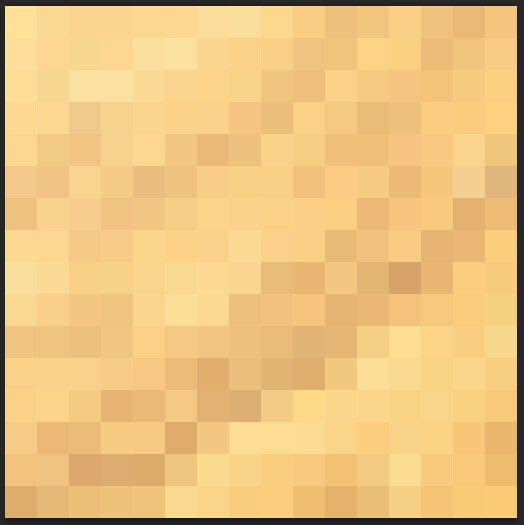
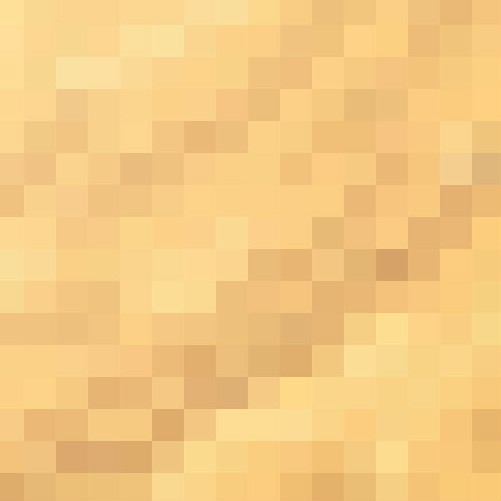
sand + initial water

diff --git a/src/map.cpp b/src/map.cpp
@@ -4,102 +4,153 @@
 #include <iostream>
 
 Map::Map(int height, int width, sf::RenderWindow& window, const std::string& obstacleTextureFile, const std::string& holeTextureFile)
-  : grid(height, std::vector<int>(width, EMPTY)), window(window) {
+    : grid(height, std::vector<int>(width, EMPTY)), window(window), currentWaterFrame(0), animationTimer(0.0f), animationSpeed(0.0001f) {
 
-  if (!obstacleTexture.loadFromFile(obstacleTextureFile)) {
-    std::cerr << "Error loading obstacle texture";
-  }
-  
-  obstacle.setTexture(obstacleTexture);
-  this->cellSize = window.getSize().x / width;
-  float scaleFactor = static_cast<float> (cellSize) / obstacleTexture.getSize().x; 
-  obstacle.setScale(scaleFactor, scaleFactor);
-  obstacle.setOrigin(cellSize, cellSize);
+    // Load obstacle texture
+    if (!obstacleTexture.loadFromFile(obstacleTextureFile)) {
+        std::cerr << "Error loading obstacle texture from " << obstacleTextureFile << std::endl;
+    } else {
+        obstacle.setTexture(obstacleTexture);
+        this->cellSize = window.getSize().x / width;
+        float scaleFactor = static_cast<float>(cellSize) / obstacleTexture.getSize().x;
+        obstacle.setScale(scaleFactor, scaleFactor);
+        obstacle.setOrigin(cellSize / 2, cellSize / 2);
+    }
 
-  if (!holeTexture.loadFromFile(holeTextureFile)) {
-    std::cerr << "Error loading hole texture";
-  }
-  hole.setTexture(holeTexture);
-  float holeScaleFactor = static_cast<float>(cellSize) / holeTexture.getSize().x; 
-  hole.setScale(holeScaleFactor / 2, holeScaleFactor / 2);
-  //hole.setOrigin(cellSize / 2, cellSize / 2);
+    // Load sand texture
+    if (!sandTexture.loadFromFile("assets/sand.jpg")) {
+        std::cerr << "Error loading sand texture from assets/sand.jpg" << std::endl;
+    } else {
+        sand.setTexture(sandTexture);
+        float sandScale = static_cast<float>(cellSize) / sandTexture.getSize().x;
+        sand.setScale(sandScale, sandScale);
+        sand.setOrigin(cellSize / 2, cellSize / 2);
+    }
 
-  if (!flagTexture.loadFromFile("assets/flag.png")) {
-    std::cerr << "Error loading flag texture";
-  }
+    // Load hole texture
+    if (!holeTexture.loadFromFile(holeTextureFile)) {
+        std::cerr << "Error loading hole texture from " << holeTextureFile << std::endl;
+    } else {
+        hole.setTexture(holeTexture);
+        float holeScaleFactor = static_cast<float>(cellSize) / holeTexture.getSize().x;
+        hole.setScale(holeScaleFactor / 2, holeScaleFactor / 2);
+        hole.setOrigin(cellSize / 2, cellSize / 2);
+    }
 
-  flag.setTexture(flagTexture);
-  float flagScaleFactor = 0.2f;
-  flag.setScale(flagScaleFactor, flagScaleFactor);
+    // Load flag texture
+    if (!flagTexture.loadFromFile("assets/flag.png")) {
+        std::cerr << "Error loading flag texture from assets/flag.png" << std::endl;
+    } else {
+        flag.setTexture(flagTexture);
+        float flagScaleFactor = 0.2f;
+        flag.setScale(flagScaleFactor, flagScaleFactor);
+    }
+
+    // Load water shader
+    if (!waterShader.loadFromFile("assets/water.frag", sf::Shader::Fragment)) {
+        std::cerr << "Error loading water shader from assets/water.frag" << std::endl;
+    } else {
+        std::cout << "Water shader loaded successfully" << std::endl;
+    }
+
+    // Load a base texture for water (e.g., a plain blue texture)
+    if (!waterTexture.loadFromFile("assets/water_base.png")) {
+        std::cerr << "Error loading water base texture from assets/water_base.jpg" << std::endl;
+    } else {
+        waterSprite.setTexture(waterTexture);
+        waterSprite.setScale(static_cast<float>(cellSize) / waterTexture.getSize().x, static_cast<float>(cellSize) / waterTexture.getSize().y);
+        waterSprite.setOrigin(cellSize / 2, cellSize / 2);
+    }
 }
 
 void Map::loadMap(const std::vector<std::vector<int>>& mapData) {
-  grid = mapData;
+    grid = mapData;
 }
 
 void Map::loadMapFromFile(const std::string& filePath) {
-  std::ifstream file(filePath);
-  if (!file.is_open()) {
-      throw std::runtime_error("Failed to open level file");
-  }
-
-  std::string line;
-  grid.clear();
-
-  while (std::getline(file, line)) {
-    std::vector<int> row;
-    for (char& ch : line) {
-        if (ch == '0' || ch == '1' || ch == '3') { 
-            row.push_back(ch - '0'); 
-        }
+    std::ifstream file(filePath);
+    if (!file.is_open()) {
+        throw std::runtime_error("Failed to open level file " + filePath);
     }
-    grid.push_back(row);
-  }
-  file.close();
+
+    std::string line;
+    grid.clear();
+
+    while (std::getline(file, line)) {
+        std::vector<int> row;
+        for (char& ch : line) {
+            if (ch == '0' || ch == '1' || ch == '2' || ch == '3' || ch == '4') {
+                row.push_back(ch - '0');
+            }
+        }
+        grid.push_back(row);
+    }
+    file.close();
 }
 
 void Map::draw() {
-  for (size_t y = 0; y < grid.size(); ++y) {
-    for (size_t x = 0; x < grid[y].size(); ++x) {
-      if (grid[y][x] == OBSTACLE) {
-        obstacle.setPosition(x * cellSize, y * cellSize);
-        window.draw(obstacle);
-      } else if (grid[y][x] == HOLE) {
-        hole.setPosition(x * cellSize, y * cellSize);
-        flag.setPosition(x * cellSize + 10, y * cellSize - 40);
-        window.draw(hole);
-        window.draw(flag);
-      }
+    animationTimer += animationSpeed;
+    float time = static_cast<float>(animationTimer);
+
+    for (size_t y = 0; y < grid.size(); ++y) {
+        for (size_t x = 0; x < grid[y].size(); ++x) {
+            if (grid[y][x] == OBSTACLE) {
+                obstacle.setPosition(x * cellSize, y * cellSize);
+                window.draw(obstacle);
+            } else if (grid[y][x] == SAND) {
+                sand.setPosition(x * cellSize, y * cellSize);
+                window.draw(sand);
+            } else if (grid[y][x] == HOLE) {
+                hole.setPosition(x * cellSize, y * cellSize);
+                flag.setPosition(x * cellSize + 10, y * cellSize - 40);
+                window.draw(hole);
+                window.draw(flag);
+            } else if (grid[y][x] == WATER) {
+                waterShader.setUniform("time", time);
+                waterShader.setUniform("resolution", sf::Vector2f(window.getSize()));
+                waterShader.setUniform("texture", sf::Shader::CurrentTexture);
+                waterSprite.setPosition(x * cellSize, y * cellSize);
+                window.draw(waterSprite, &waterShader);
+            }
+        }
     }
-  }
 }
 
 bool Map::isObstacle(int x, int y) {
-  int gridX = x / cellSize;
-  int gridY = y / cellSize;
-  if (gridX < 0 || gridX >= grid[0].size() || gridY < 0 || gridY >= grid.size()) {
-      return false;
-  }
-  return grid[gridY][gridX] == OBSTACLE;
+    int gridX = x / cellSize;
+    int gridY = y / cellSize;
+    if (gridX < 0 || gridX >= grid[0].size() || gridY < 0 || gridY >= grid.size()) {
+        return false;
+    }
+    return grid[gridY][gridX] == OBSTACLE;
+}
+
+bool Map::isSand(int x, int y) {
+    int gridX = x / cellSize;
+    int gridY = y / cellSize;
+    if (gridX < 0 || gridX >= grid[0].size() || gridY < 0 || gridY >= grid.size()) {
+        return false;
+    }
+    return grid[gridY][gridX] == SAND;
 }
 
 bool Map::isHole(int x, int y) {
-  sf::Vector2f pos = hole.getPosition();
-  if (pos.x > x - 20 && pos.x < x + 10 && pos.y > y - 20 && pos.y < y + 10) {
-    return true;
-  } else return false;
+    sf::Vector2f pos = hole.getPosition();
+    if (pos.x > x - 20 && pos.x < x + 10 && pos.y > y - 20 && pos.y < y + 10) {
+        return true;
+    }
+    return false;
 }
 
 sf::Vector2f Map::getHoleCenter() {
-  sf::Vector2f pos = hole.getPosition();
-  pos.x += holeTexture.getSize().x / 2;
-  pos.y += holeTexture.getSize().y / 2;
-  return pos;
+    sf::Vector2f pos = hole.getPosition();
+    pos.x += holeTexture.getSize().x / 2;
+    pos.y += holeTexture.getSize().y / 2;
+    return pos;
 }
 
-
 sf::Vector2i Map::getCellCoords(sf::Vector2f position) {
-  int x = static_cast<int>(position.x) / cellSize;
-  int y = static_cast<int>(position.y) / cellSize;
-  return sf::Vector2i(x, y);
+    int x = static_cast<int>(position.x) / cellSize;
+    int y = static_cast<int>(position.y) / cellSize;
+    return sf::Vector2i(x, y);
 }

diff --git a/headers/map.hpp b/headers/map.hpp
@@ -9,6 +9,7 @@ enum CellType {
   OBSTACLE,
   SAND,
   HOLE,
+  WATER,
 };
 
 class Map {
@@ -22,6 +23,17 @@ private:
   sf::Sprite hole;
   sf::Texture flagTexture;
   sf::Sprite flag;
+  sf::Texture sandTexture;
+  sf::Sprite sand;
+  std::vector<sf::Texture> waterTextures;
+  std::vector<sf::Sprite> waterSprites;
+  int currentWaterFrame;
+  float animationTimer;
+  float animationSpeed;
+
+  sf::Texture waterTexture;  // Base water texture
+  sf::Sprite waterSprite;
+  sf::Shader waterShader;    // Shader for water effect
 
 public:
   Map(int width, int height, sf::RenderWindow& window, const std::string& textureFile, const std::string& holeTextureFile);
@@ -29,6 +41,7 @@ public:
   void loadMapFromFile(const std::string& filePath);
   void draw();
   bool isObstacle(int x, int y);
+  bool isSand(int x, int y);
   bool isHole(int x, int y);
   sf::Vector2f getHoleCenter();
   sf::Vector2i getCellCoords(sf::Vector2f position);

diff --git a/src/game.cpp b/src/game.cpp
@@ -4,7 +4,7 @@
 #include <SFML/System.hpp>
 
 GolfGame::GolfGame(sf::RenderWindow& window) : ball(390, 500, 10, "assets/golfBall.png", "assets/arrow.png"), map(18, 32, window, "assets/obstacle.png", "assets/hole.png") {
-    loadLevel("levels/level4.txt");
+    loadLevel("levels/level5.txt");
 
     if (!font.loadFromFile("assets/font.ttf")) {
         std::cerr << "Error opening font file";
@@ -103,6 +103,10 @@ void GolfGame::loadLevel(const std::string& filePath) {
     map.loadMapFromFile(filePath);
     ball.reset();
     strokeCount = 0;
+
+    if (curLevel == 4) {
+        ball.setPos(200, 560);
+    }
 }
 
 void GolfGame::calculateVelocity() {

diff --git a/headers/game.hpp b/headers/game.hpp
@@ -24,7 +24,7 @@ private:
     sf::Text holeText;
     sf::Text levelUpText;
     int strokeCount = 0;
-    int curLevel = 1;
+    int curLevel = 5;
     bool validClick = false;
     bool isMousePressed = false;
     sf::Vector2f initialPos;
@@ -34,7 +34,6 @@ private:
     sf::Texture titleTexture;
     sf::Sprite titleSprite;
     sf::Text titleText;
-    //sf::Text holeText;
     sf::Text bottomText;
     sf::Texture splashBgTexture;
     sf::Sprite splashBg;

diff --git a/src/ball.cpp b/src/ball.cpp
@@ -115,6 +115,12 @@ void Ball::update(float deltaTime, const sf::RenderWindow& window, Map& map) {
             newPos = pos;
         }
 
+        if (map.isSand(newPos.x, newPos.y)) {
+            friction = 100.0f;
+        } else {
+            friction = 1.0f;
+        }
+
         if (map.isHole(newPos.x, newPos.y)) {
             velMagnitude = 0;
             newPos = map.getHoleCenter();
